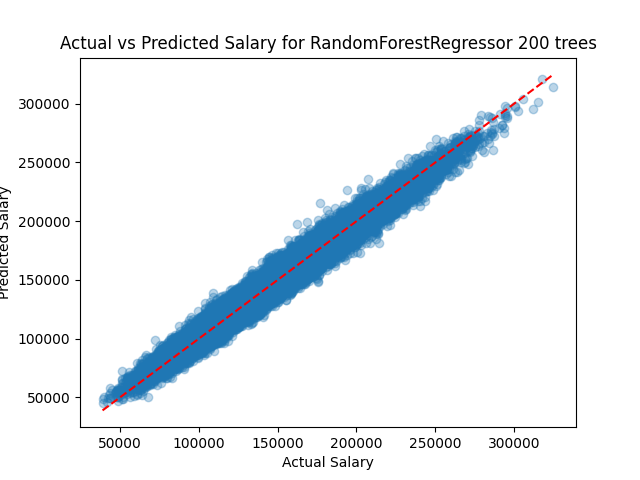
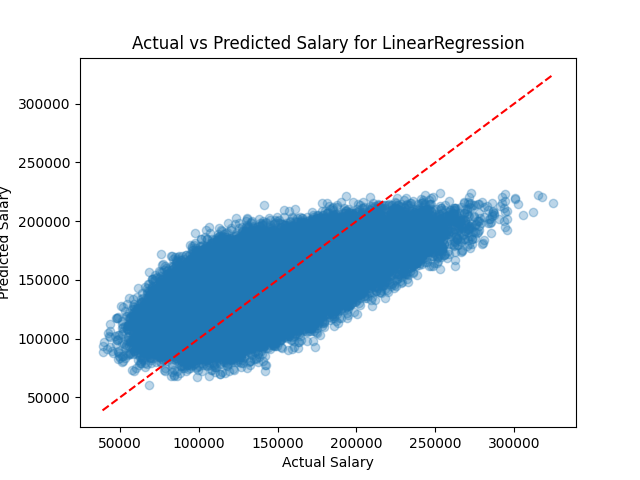
updated graf images

Changed region(s): [[0.1562, 0.1875, 0.875, 0.8438], [0.0938, 0.0625, 0.9375, 0.125], [0.8438, 0.1562, 0.875, 0.1875]]

diff --git a/scripts/train_salary_prediction.py b/scripts/train_salary_prediction.py
@@ -2,7 +2,6 @@
 import pandas as pd
 import matplotlib.pyplot as plt
 from pathlib import Path
-from sklearn.metrics import mean_absolute_error
 from sklearn.model_selection import train_test_split
 from sklearn.metrics import mean_absolute_error
 from sklearn.metrics import r2_score
@@ -37,7 +36,7 @@ def encode_data(df: pd.DataFrame) -> pd.DataFrame:
         le = LabelEncoder()
         df[col] = le.fit_transform(df[col].astype(str)) # encode text to numeric
         
-        df.to_csv(DATA_DIR /"encoded_job_salary_prediction_dataset.csv", index=False) # save encode dataset for future use
+    df.to_csv(DATA_DIR /"encoded_job_salary_prediction_dataset.csv", index=False) # save encode dataset for future use
 
     return df
 

diff --git a/README.md b/README.md
@@ -12,26 +12,26 @@ Valde att hämta dataset från kaggle med årsinkomster för olika yrken/klassif
 Källa https://www.kaggle.com/datasets/nalisha/job-salary-prediction-dataset
 
 ```bash
+From kaggle
+Column	Description
+job_title	The job role or position (e.g., Data Analyst, AI Engineer)
+experience_years	Number of years of professional experience
+education_level	Highest level of education completed
+skills_count	Number of technical or professional skills
+industry	Industry sector where the job belongs
+company_size	Size of the company (small, medium, large)
+location	Job location or region
+remote_work	Whether the job allows remote work
+certifications	Number of professional certifications
+salary	Annual salary of the employee
 
-job_title	yrkes roll
-experience_years yrkes år
-education_level	högsta utbildningen
-skills_count	skills 
-industry	typ av industri man jobba inom
-company_size	storlek av företaget (small, medium, large)
-location	varifrån
-remote_work	får man jobba hemma , yes/no
-certifications	antal certifikat
-salary	årslönen 
-
-Total 250000 rader
+Total 250000 row and 10 col
 ```
 
-Vill kunna förutsäga olika yrken årslöner genom testa olika klassifikationer
-Dataset är regression då det är salary (numerisk), salary är vårat target 
+Vill kunna förutsäga olika yrken årslöner genom testa olika klassifikationer, dataset är regression då det är salary (numerisk), salary är vårat target 
 
 # Steg 2: Förberedelse av data
-Dataset ser fint ut, inga saknade värden, dock så måste kategorierna göras till numeriska värden.
+Dataset ser bra ut (kanske för bra), inga saknade värden, dock så måste kategorierna göras till numeriska värden.
 
 Om det saknas värdern så kunde vi antigen tagit bort de raderna eller använd fill in metoden
 
@@ -86,12 +86,14 @@ R2: 0.96929295
 MAE genomsnittet hur mycket fel i dollars har den 
 R2 hur mycket variation , mellan 0-1 , 1 är bäst
 
-Valde gå vidare med RandomForestRegressor 200 trees 
+Datasetet är inte linjärt , lönen o erfarenheten ökar inte linjert , först året kanske du får en höjning men nästa år kanske det är tredubbla , men tredje är det samma ökning som första året etc.
+
+Valde gå vidare med RandomForestRegressor har bästa värderna
 
 Har en graf i output som visar resultat, ju närmar linjen plupparna är desto bättre
 
 # Steg 4: Utvärdera modellen
-Sparade ner RandomForestRegressor modellen men det är ca 800M så jag simulerar istället att förutsäga vilken lön ett yrke med olika kategorier, dels att söka i datasetet o sedan att använda modellen men en dummy person.
+Sparade ner RandomForestRegressor modellen men det är ca 1 G stor så jag simulerar istället att förutsäga vilken lön ett yrke med olika kategorier, dels att söka i datasetet o sedan att använda modellen men en dummy person.
 
 ```bash
 python ./scripts/test_salary_prediction.py    
@@ -107,9 +109,5 @@ person = pd.DataFrame([{
     'remote_work'     : 2,   
     'certifications'  : 2
 }])
-#en person som jobbar med Machine Learning Engineer, 5 år erfaranhet , Master..
-
-Predicted salary: $131,735
-Similar salaries range: $61,457 - $218,844
-Similar avg salaries  : $130,340
+#en person som jobbar med Machine Learning Engineer, 5 år erfaranhet , Master
 ```
